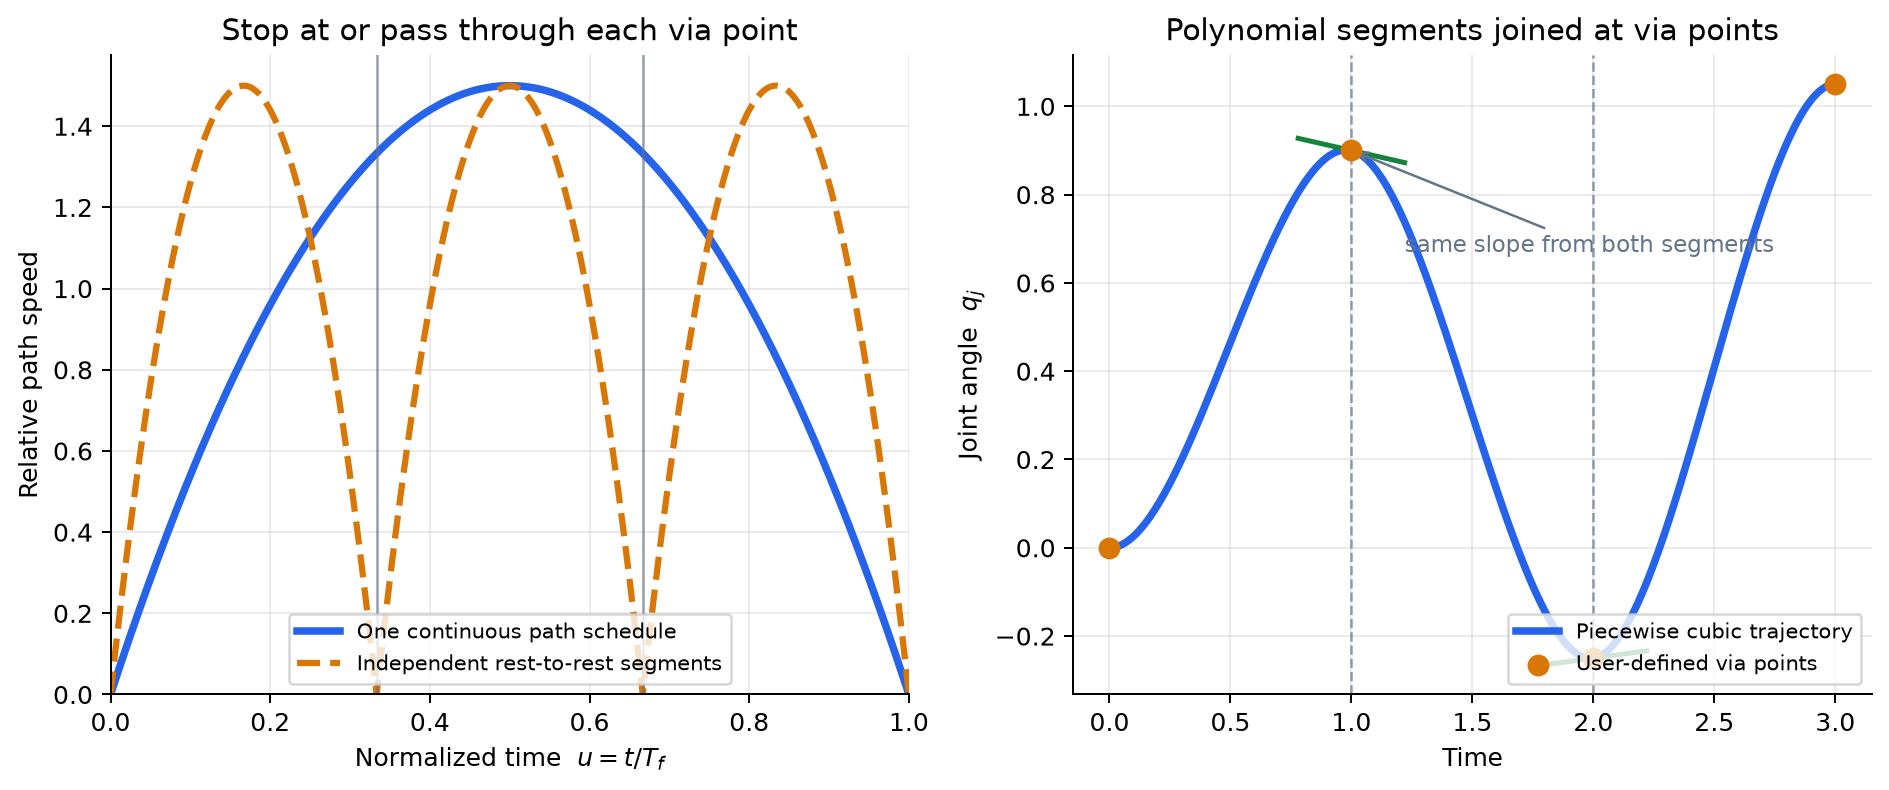
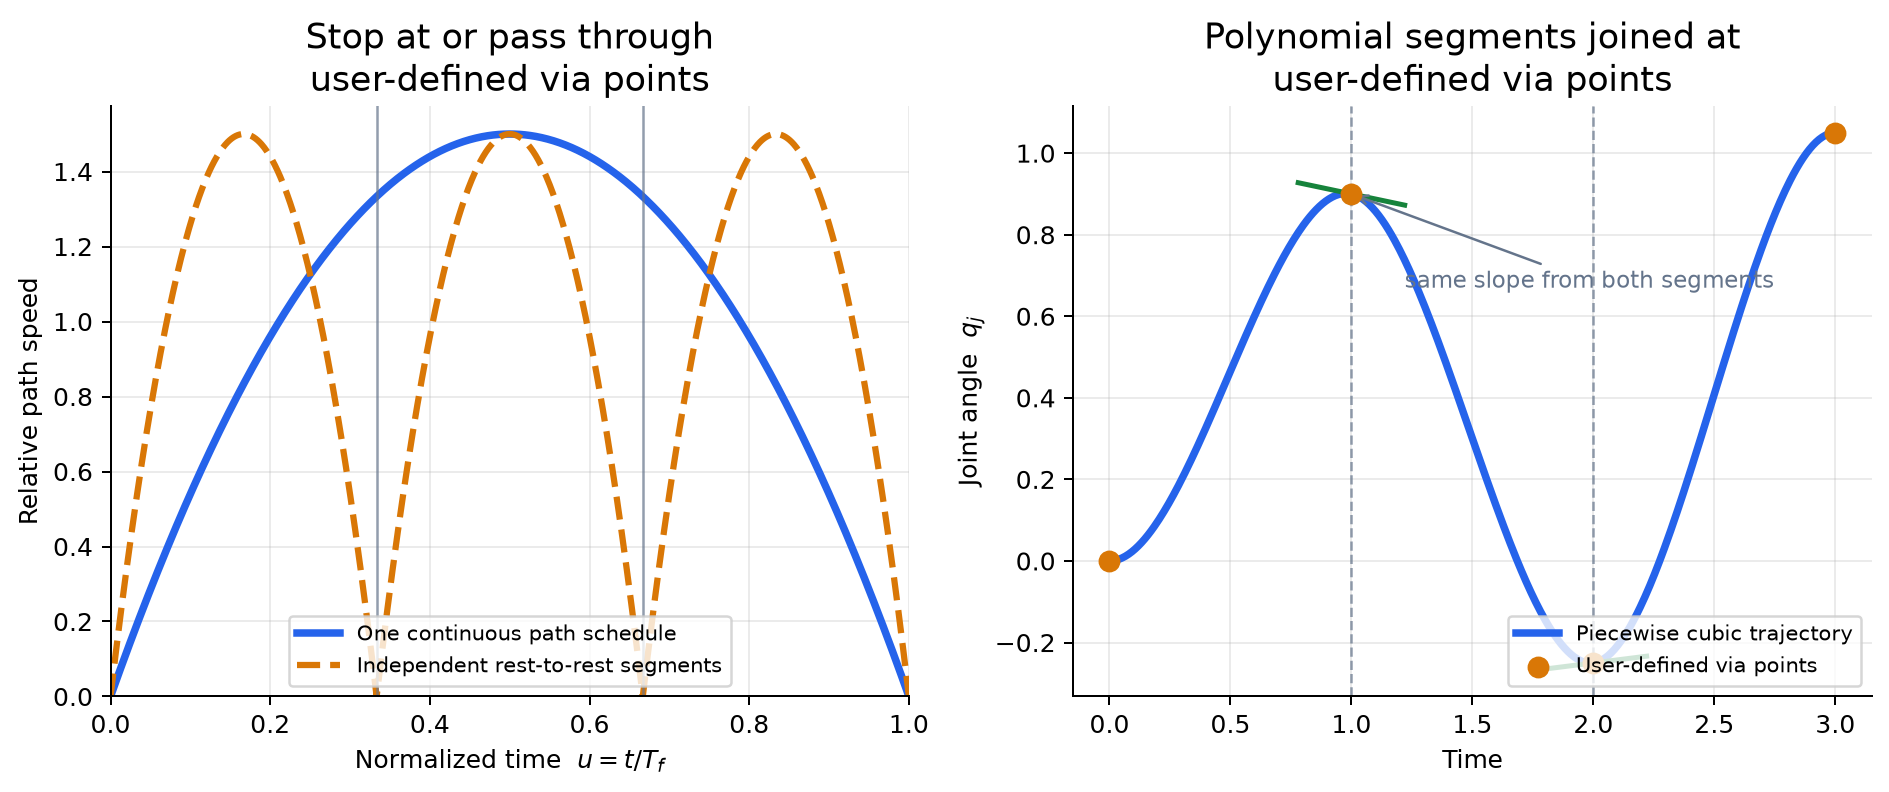
Refactor terminology and improve figure titles for clarity in Lab 5 documentation

diff --git a/lab05_trajectory_tracking/figures/generate_trajectory_figures.py b/lab05_trajectory_tracking/figures/generate_trajectory_figures.py
@@ -427,7 +427,10 @@ def save_via_point_segments():
     axes[0].set_ylim(bottom=0.0)
     axes[0].set_xlabel(r"Normalized time  $u=t/T_f$")
     axes[0].set_ylabel("Relative path speed")
-    axes[0].set_title("Stop at or pass through each via point")
+    axes[0].set_title(
+        "Stop at or pass through\nuser-defined via points",
+        fontsize=14,
+    )
     axes[0].legend(fontsize=8.5)
 
     axes[1].plot(spline_time, spline_angle, color=BLUE, linewidth=3.0,
@@ -451,7 +454,10 @@ def save_via_point_segments():
                      color=GRAY, fontsize=9)
     axes[1].set_xlabel("Time")
     axes[1].set_ylabel(r"Joint angle  $q_j$")
-    axes[1].set_title("Polynomial segments joined at via points")
+    axes[1].set_title(
+        "Polynomial segments joined at\nuser-defined via points",
+        fontsize=14,
+    )
     axes[1].legend(fontsize=8.5, loc="lower right")
 
     figure.tight_layout()

diff --git a/lab05_trajectory_tracking/OPTIONAL_BACKGROUND.md b/lab05_trajectory_tracking/OPTIONAL_BACKGROUND.md
@@ -273,7 +273,7 @@ Because forward kinematics is nonlinear, smoothly interpolated joint angles usua
 
 *The joints follow synchronized, smooth profiles, but forward kinematics maps them to a curved tool path. The dashed line is shown only for comparison; MoveJ does not command the tool to follow it.*
 
-## 9. Cartesian motion (MoveL) and waypoints
+## 9. Cartesian motion (MoveL), sampling, and via points
 
 A **MoveL-style motion** commands a Cartesian path: the `L` means **linear**. For a straight position segment,
 
@@ -281,7 +281,7 @@ $$
 \mathbf p(t)=\mathbf p_0+\left(\mathbf p_f-\mathbf p_0\right)s(t).
 $$
 
-The controller evaluates this equation at successive times to obtain Cartesian reference points, often called sampled waypoints, and converts them to joint commands using inverse kinematics or inverse-velocity control. The previous joint solution should seed the next IK solve so the solver tends to remain on the same solution branch.
+The controller evaluates this equation at successive times to obtain **sampled Cartesian references** and converts them to joint commands using inverse kinematics or inverse-velocity control. These dense control samples are different from the user-defined via points introduced later. The previous joint solution should seed the next IK solve so the solver tends to remain on the same solution branch.
 
 A straight Cartesian path can therefore require a complicated joint-space path. Joint limits, singularities, reachability, and discontinuous IK solutions must still be checked.
 
@@ -372,13 +372,13 @@ where $\boldsymbol\tau_{\mathrm{ff}}$ can compensate for gravity, inertia, and o
 
 Smaller sampling intervals represent the reference path more densely but increase the number of IK solves and commands. Very coarse sampling can produce interpolation error. Very fine sampling does not automatically improve tracking if the controller or simulation step cannot follow the commands.
 
-### User-defined segments and via points
+### Segmented motion and user-defined via points
 
-A waypoint can also be a user-specified point that divides a longer path into segments. Each segment needs a geometric interpolation rule, but it does **not** need to be an independent rest-to-rest motion. A practical trajectory generator coordinates the timing of the complete path and sends one continuous stream of references. It may blend or round a corner so velocity and acceleration remain continuous.
+A **user-defined via point** is an intentional point that divides a longer path into segments. Unlike the dense Cartesian references sampled automatically along a line, it specifies path structure chosen by the programmer. Each segment needs a geometric interpolation rule, but it does **not** need to be an independent rest-to-rest motion. A practical trajectory generator coordinates the timing of the complete path and sends one continuous stream of references. It may blend or round a corner so velocity and acceleration remain continuous.
 
-If each segment instead receives its own rest-to-rest profile, the commanded speed falls to zero at every waypoint. That behavior is appropriate when a full stop is required, but it produces unnecessary repeated acceleration and deceleration when the robot should pass through continuously.
+If each segment instead receives its own rest-to-rest profile, the commanded speed falls to zero at every user-defined via point. That behavior is appropriate when a full stop is required, but it produces unnecessary repeated acceleration and deceleration when the robot should pass through continuously.
 
-The piecewise-polynomial construction often shown in trajectory-planning diagrams assigns one polynomial to each interval between user-defined via points. Neighboring polynomials meet at a via point. To pass through smoothly, both segments must give the same joint angle and joint velocity there,
+The piecewise-polynomial construction often shown in trajectory-planning diagrams assigns one polynomial to each interval between user-defined via points. Neighboring polynomials meet at a user-defined via point. To pass through smoothly, both segments must give the same joint angle and joint velocity there,
 
 $$
 q_j(t_k^-)=q_j(t_k^+),
@@ -386,7 +386,7 @@ q_j(t_k^-)=q_j(t_k^+),
 \dot q_j(t_k^-)=\dot q_j(t_k^+).
 $$
 
-Matching acceleration as well gives still smoother motion. Setting the shared waypoint velocity to zero makes the joint stop there; assigning a nonzero shared velocity lets it pass through continuously. If the polynomials are constructed in joint space after IK, the tool path between Cartesian waypoints is not guaranteed to remain exactly straight. Maintaining a strict Cartesian line requires sampling or controlling the Cartesian path itself.
+Matching acceleration as well gives still smoother motion. Setting the shared via-point velocity to zero makes the joint stop there; assigning a nonzero shared velocity lets it pass through continuously. If the polynomials are constructed in joint space after IK, the tool path between user-defined Cartesian via points is not guaranteed to remain exactly straight. Maintaining a strict Cartesian line requires sampling or controlling the Cartesian path itself.
 
 ![Timing choices and piecewise cubic interpolation for user-defined via-point segments.](figures/via_point_segments.png)
 

diff --git a/lab05_trajectory_tracking/README.md b/lab05_trajectory_tracking/README.md
@@ -23,7 +23,7 @@ You succeed when the UR5e safely completes both motions, the point-to-point traj
 By the end of this lab, you should be able to:
 
 1. implement cubic or quintic time scaling with explicit boundary conditions;
-2. generate synchronized joint-space motion and Cartesian waypoint motion;
+2. generate synchronized joint-space motion and Cartesian sampled-reference motion;
 3. reuse your own FK, IK, and Jacobian-related checks from earlier labs;
 4. execute sampled references through a small Webots adapter; and
 5. compare trajectory geometry and tracking performance quantitatively.
@@ -55,7 +55,7 @@ Use that point for both desired and measured Cartesian straightness. The `TRAJEC
 - `controllers/diagnostic_minimal/` and `controllers/diagnostic_devices/`
 - `src/cubic_trajectory.py` - coefficient and sampling starter
 - `src/send_trajectory.py` - Webots execution outline
-- `src/cartesian_line.py` - straight-line waypoint scaffold
+- `src/cartesian_line.py` - straight-line sampling and sequential-IK scaffold
 - `Lab05_Report_Template.docx`
 
 
@@ -100,7 +100,7 @@ Do not call a Webots, SciPy, MoveIt, or other library trajectory solver for the 
 
 The execution loop sends the current joint target once per Webots simulation step. It does not create an independent rest-to-rest motion between every two samples. See [What happens between two IK samples?](OPTIONAL_BACKGROUND.md#what-happens-between-two-ik-samples) for the Webots and physical-robot interpretation.
 
-Do not rewrite the supplied waypoint, line-distance, logging, or execution helpers, and do not call a Webots, SciPy, MoveIt, or other library IK solver for the assigned work.
+Do not rewrite the supplied Cartesian-sampling, line-distance, logging, or execution helpers, and do not call a Webots, SciPy, MoveIt, or other library IK solver for the assigned work.
 
 ## Part 4 - Robot Experiment
 
@@ -109,9 +109,9 @@ Do not rewrite the supplied waypoint, line-distance, logging, or execution helpe
 From the same reset state, execute:
 
 1. a MoveJ-style joint-space motion from `q0` to `qf`; and
-2. a practical MoveL-style Cartesian waypoint motion between the corresponding end-effector poses.
+2. a practical MoveL-style Cartesian sampled-reference motion between the corresponding end-effector poses.
 
-Log simulation time, desired/measured joint position, desired joint velocity, and FK end-effector position. Hold the final command safely. If a waypoint fails IK or a limit check, stop before motion rather than skipping it.
+Log simulation time, desired/measured joint position, desired joint velocity, and FK end-effector position. Hold the final command safely. If a Cartesian sample fails IK or a limit check, stop before motion rather than skipping it.
 
 ## Part 5 - Quantitative Analysis
 
@@ -132,12 +132,12 @@ Plot joint trajectories and the 3-D or projected end-effector paths on common ax
 
 Answer in 2-3 sentences.
 
-Why can a smooth joint-space trajectory produce a curved Cartesian tool path, while a Cartesian waypoint trajectory can remain approximately straight? Refer to your measured paths.
+Why can a smooth joint-space trajectory produce a curved Cartesian tool path, while a Cartesian sampled-reference trajectory can remain approximately straight? Refer to your measured paths.
 
 ## What to Submit
 
 1. Completed `src/cubic_trajectory.py` containing the three equation lines.
-2. Completed `Lab05_Report_Template.docx` containing endpoint checks, MoveJ and Cartesian-waypoint logs and plots, the metric comparison, and the Engineering Question response.
+2. Completed `Lab05_Report_Template.docx` containing endpoint checks, MoveJ and MoveL logs and plots, the metric comparison, and the Engineering Question response.
 
 Do not submit supplied helper code, `lab05_work.wbt`, vendor assets, or caches unless requested.
 
